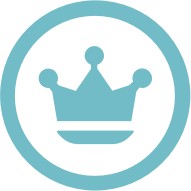
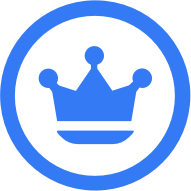
faqlist

diff --git a/src/components/pricing/VIPSubscriptions.jsx b/src/components/pricing/VIPSubscriptions.jsx
@@ -148,7 +148,14 @@ const PackageCard = ({
                 </Typography>
             </CardContent>
             <Box sx={{ display: 'flex', justifyContent: 'center', p: 2 }}>
-                <Button variant="contained" sx={{ backgroundColor: isSelected ? color : '#D9D9D9', color: isSelected ? '#ffffff' : '#ffffff', '&:hover': { backgroundColor: isSelected ? color : '#D9D9D9' } }}>
+                <Button variant="contained" sx={{ 
+                    textTransform: 'none',
+                    fontSize: '18px',
+                    borderRadius: '24px',
+
+                    backgroundColor: isSelected ? color : '#D9D9D9', 
+                    color: isSelected ? '#ffffff' : '#ffffff', 
+                    '&:hover': { backgroundColor: isSelected ? color : '#D9D9D9' } }}>
                     Purchase
                 </Button>
             </Box>
@@ -164,8 +171,8 @@ const VIPSubscriptions = () => {
             id: 1,
             title: "30-Day VIP",
             description: "Includes 60 AI-powered Correction Services",
-            price: 100,
-            color: "#72BCC7",
+            price: 30,
+            color: "#357AF5",
             imagePathSelected: '/images/pricing/vip-crown.png',
             imagePathUnselected: '/images/pricing/vip-crown-unselected.png'
         },
@@ -173,8 +180,8 @@ const VIPSubscriptions = () => {
             id: 2,
             title: "15-Day VIP",
             description: "Includes 30 AI-powered Correction Services",
-            price: 60,
-            color: "#7637F1",
+            price: 20,
+            color: "#72BCC7",
             imagePathSelected: '/images/pricing/vip-rocket.png',
             imagePathUnselected: '/images/pricing/vip-rocket-unselected.png'
         },
@@ -182,7 +189,7 @@ const VIPSubscriptions = () => {
             id: 3,
             title: "7-Day VIP",
             description: "Includes 10 AI-powered Correction Services",
-            price: 30,
+            price: 10,
             color: "#E4943B",
             imagePathSelected: '/images/pricing/vip-tag.png',
             imagePathUnselected: '/images/pricing/vip-tag-unselected.png'

diff --git a/src/components/pricing/FaqList.jsx b/src/components/pricing/FaqList.jsx
@@ -1,0 +1,58 @@
+import React from 'react';
+import { Container, Box, Accordion, AccordionSummary, AccordionDetails, Typography } from '@mui/material';
+import ExpandMoreIcon from '@mui/icons-material/ExpandMore';
+
+const FaqList = () => {
+  const [expanded, setExpanded] = React.useState(false);
+
+  const handleChange = (panel) => (event, isExpanded) => {
+    setExpanded(isExpanded ? panel : false);
+  };
+
+  return (
+    <Container>
+      <Box sx={{ mt: 2 }}>
+        {faqData.map((faq, index) => (
+          <Accordion
+            key={index}
+            expanded={expanded === `panel${index}`}
+            onChange={handleChange(`panel${index}`)}
+            sx={{ mt: 2, mb: 2 }} // 在这里添加上下间距
+          >
+            <AccordionSummary
+              expandIcon={<ExpandMoreIcon />}
+              IconButtonProps={{
+                edge: "start"
+              }}
+              aria-controls={`panel${index}a-content`}
+              id={`panel${index}a-header`}
+              sx={{ backgroundColor: expanded === `panel${index}` ? 'white' : 'lightgrey', flexDirection: 'row-reverse' }}
+            >
+              <Typography>{faq.question}</Typography>
+            </AccordionSummary>
+            <AccordionDetails sx={{ backgroundColor: 'white' }}>
+              <Typography>
+                {faq.answer}
+              </Typography>
+            </AccordionDetails>
+          </Accordion>
+        ))}
+      </Box>
+    </Container>
+  );
+};
+
+// 示例数据
+const faqData = [
+  {
+    question: 'How does DETPractice’s plans and pricing work?',
+    answer: 'We provide transparent plans and pricing for our users, with no hidden fees. Additionally, we offer add-on subscription packages so that you can choose services according to your needs.'
+  },
+  {
+    question: 'Is there a free trial?',
+    answer: 'Yes, we offer a 7-day free trial for new users to explore our features.'
+  },
+  // 可以添加更多的FAQ数据
+];
+
+export default FaqList;

diff --git a/src/pages/PricingPage.jsx b/src/pages/PricingPage.jsx
@@ -2,22 +2,40 @@ import React from 'react';
 import { Container, Grid, Box, Typography } from '@mui/material';
 import globalSettingsConfig from '../globalSettingsConfig';
 import VIPSubscriptions from '../components/pricing/VIPSubscriptions';
+import FaqList from '../components/pricing/FaqList';
 function PricingPage() {
 
-    return(
-        <Box sx={{width: '100%'}} >
-              <Box sx={{ bgcolor: '#FFFDFA', }}>
-              {/* <Box sx={{ bgcolor: 'red', }}> */}
-
+    return (
+        <Box sx={{ width: '100%' }} >
+            <Box sx={{ bgcolor: '#FFFDFA', }}>
                 <Box sx={{
                     marginX: globalSettingsConfig.layoutMargins.horizontalWindowMargin,
                     paddingY: '50px',
                     // paddingX: '100px',
                 }}>
-            <VIPSubscriptions/>
+                    <Typography variant="h1" component="h1" gutterBottom sx={{
+                        color: '#212833',
+                        fontFamily: 'Suisse Works, Georgia, PingFang TC, serif',
+                        fontWeight: 'bold',  // 加粗
+                        fontSize: '40px',  // 字体大小为36px
+                        mb: '40px'
+                    }}>
+                        Subscription Plans
+                    </Typography>
+                    <VIPSubscriptions />
 
                 </Box>
+            </Box>
+            <Box sx={{  }}>
+                <Box sx={{
+                    marginX: globalSettingsConfig.layoutMargins.horizontalWindowMargin,
+                    paddingY: '50px',
+                    // paddingX: '100px',
+                }}>
+                    <FaqList />
+
                 </Box>
+            </Box>
         </Box>
     );
 
